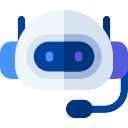
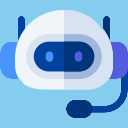
diseño fondo y colores para el login y sign up

diff --git a/login_ia.py b/login_ia.py
@@ -1,5 +1,6 @@
 import tkinter as tk
 from tkinter import messagebox
+from PIL import Image, ImageTk
 from crud_ia import CrudApp
 from chatbot_ia import mostrar_ventana_chat
 
@@ -7,16 +8,25 @@ class LoginApp:
     def __init__(self, root, crud_instance):
         self.root = root
         self.root.title("Inicio de Sesión")
-        self.root.geometry("400x350")
+        self.root.geometry("500x450")
         self.crud_instance = crud_instance
+
+        # Fondo de imagen del instituto Certus
+        original_bg_image = Image.open("F:/Desarrollo_IA/images/ANOTHER.jpg")
+        resized_bg_image = original_bg_image.resize((500, 450), Image.LANCZOS)
+        self.bg_photo = ImageTk.PhotoImage(resized_bg_image)
 
         self.registro_window = None
         self.sesion_iniciada = False
 
-        self.logo_image = tk.PhotoImage(file="F:/Desarrollo_IA/images/bot3.png")
-
-        frame = tk.Frame(root, padx=20, pady=10)
+        frame = tk.Frame(root)
         frame.pack(expand=True, fill='both')
+
+        # Fondo de imagen
+        bg_label = tk.Label(frame, image=self.bg_photo)
+        bg_label.place(relwidth=1, relheight=1)
+
+        self.logo_image = tk.PhotoImage(file="F:/Desarrollo_IA/images/bot3.png")
 
         self.logo_label = tk.Label(frame, image=self.logo_image)
         self.logo_label.grid(row=0, column=0, columnspan=2, pady=5)
@@ -29,8 +39,8 @@ class LoginApp:
         self.correo_entry.grid(row=1, column=1, pady=5, padx=5, sticky='w')
         self.contrasena_entry.grid(row=2, column=1, pady=5, padx=5, sticky='w')
 
-        tk.Button(frame, text="Iniciar Sesión", command=self.iniciar_sesion).grid(row=3, column=0, columnspan=2, pady=5)
-        tk.Button(frame, text="Registrarse", command=self.mostrar_registro).grid(row=4, column=0, columnspan=2, pady=5)
+        tk.Button(frame, text="Iniciar Sesión", command=self.iniciar_sesion, bg='lightblue', font=('Arial', 12, 'bold')).grid(row=3, column=0, columnspan=2, pady=5)
+        tk.Button(frame, text="Registrarse", command=self.mostrar_registro, bg='lightblue', font=('Arial', 12, 'bold')).grid(row=4, column=0, columnspan=2, pady=5)
 
         frame.columnconfigure(0, weight=1)
         frame.columnconfigure(1, weight=1)
@@ -57,14 +67,21 @@ class LoginApp:
         registro_window = tk.Toplevel(self.root)
         registro_window.title("Registro de Usuario")
 
-        registro_window.geometry("450x500")
+        registro_window.geometry("500x450")
 
-        frame = tk.Frame(registro_window, padx=20, pady=10)
+        frame = tk.Frame(registro_window)
         frame.pack(expand=True, fill='both')
 
-        logo_image = tk.PhotoImage(file="images/login2.png")
-        logo_label = tk.Label(frame, image=logo_image)
-        logo_label.grid(row=0, column=0, columnspan=2, pady=2)
+        # Fondo de imagen
+        bg_label = tk.Label(frame, image=self.bg_photo)
+        bg_label.place(relwidth=1, relheight=1)
+
+        try:
+            logo_image = tk.PhotoImage(file="F:/Desarrollo_IA/images/login2.png")
+            logo_label = tk.Label(frame, image=logo_image)
+            logo_label.grid(row=0, column=0, columnspan=2, pady=2)
+        except Exception as e:
+            print(f"Error al cargar la imagen del logo en la ventana de registro: {e}")
 
         tk.Label(frame, text="Nombres:").grid(row=1, column=0, pady=5, padx=5, sticky='e')
         tk.Label(frame, text="Apellidos:").grid(row=2, column=0, pady=5, padx=5, sticky='e')
@@ -81,7 +98,7 @@ class LoginApp:
         correo_entry.grid(row=3, column=1, pady=5, padx=5, sticky='w')
         contrasena_entry.grid(row=4, column=1, pady=5, padx=5, sticky='w')
 
-        tk.Button(frame, text="Registrar", command=lambda: self.registrarse(nombres_entry, apellidos_entry, correo_entry, contrasena_entry)).grid(row=5, column=0, columnspan=2, pady=5)
+        tk.Button(frame, text="Registrar", command=lambda: self.registrarse(nombres_entry, apellidos_entry, correo_entry, contrasena_entry), bg='lightblue', font=('Arial', 12, 'bold')).grid(row=5, column=0, columnspan=2, pady=5)
 
         frame.columnconfigure(0, weight=1)
         frame.columnconfigure(1, weight=1)
